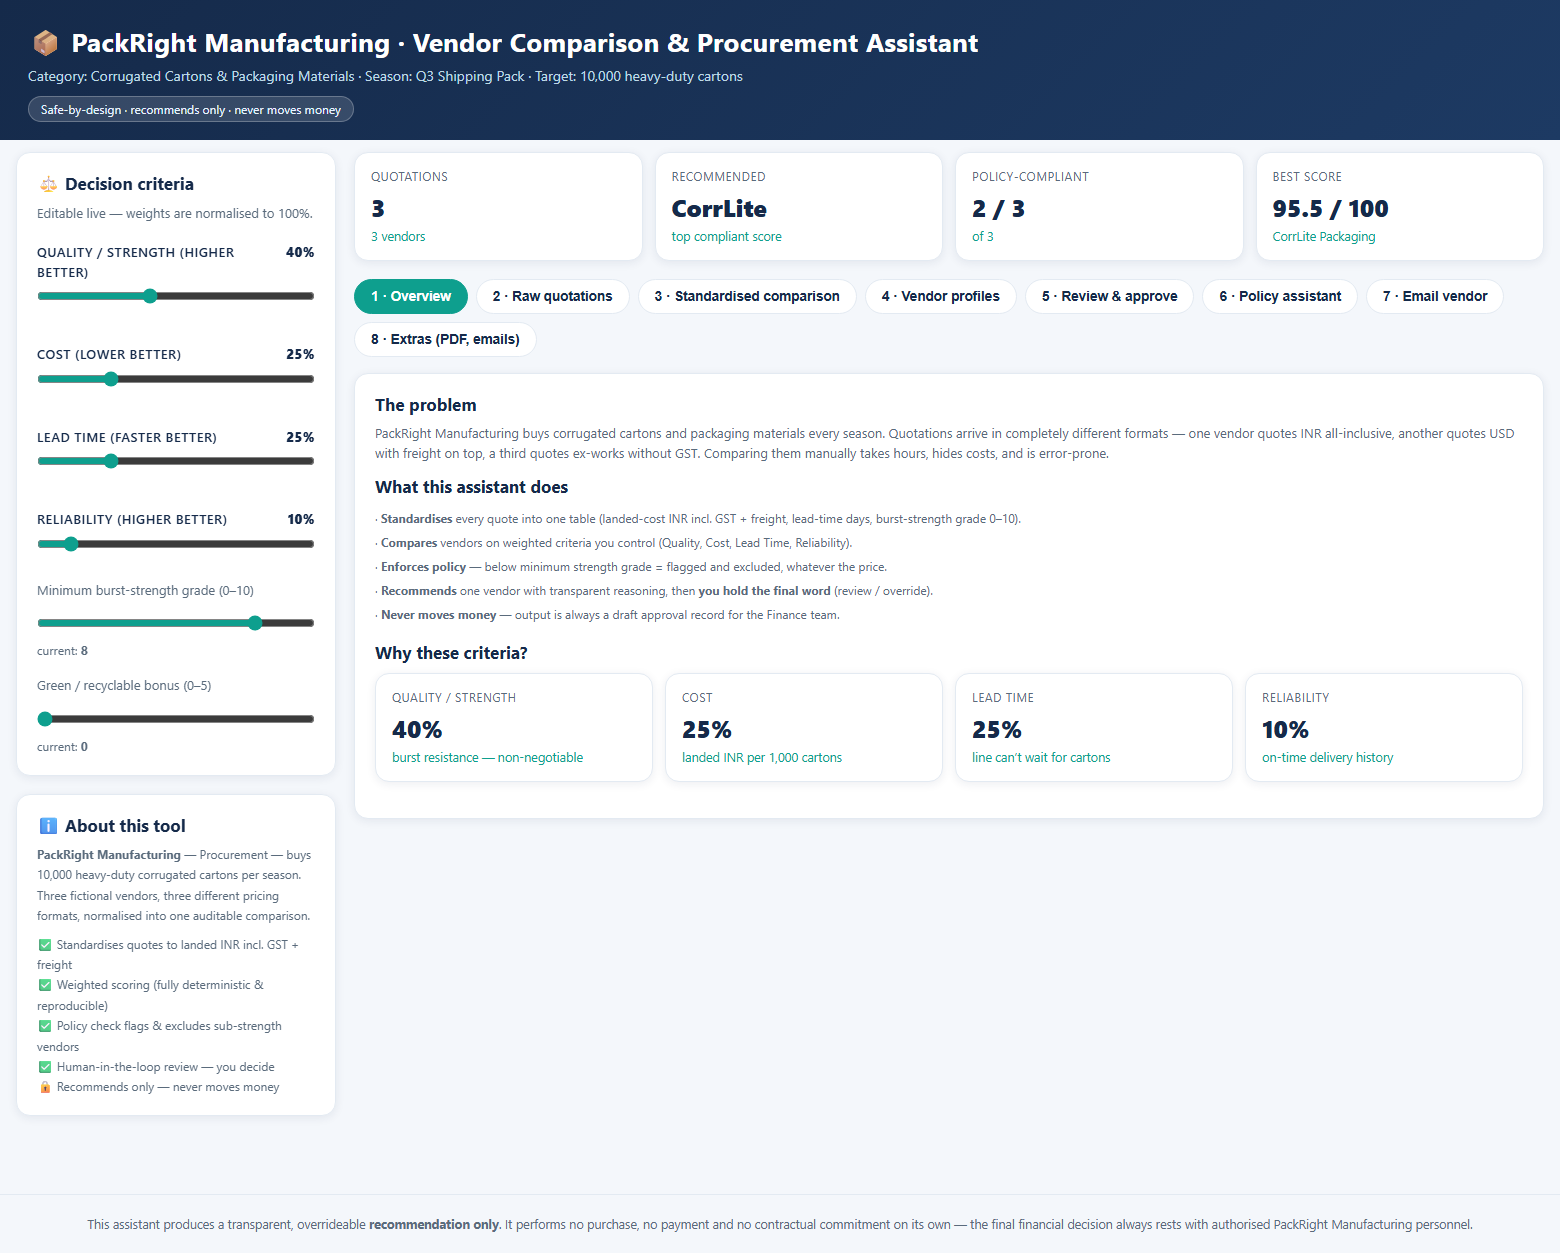
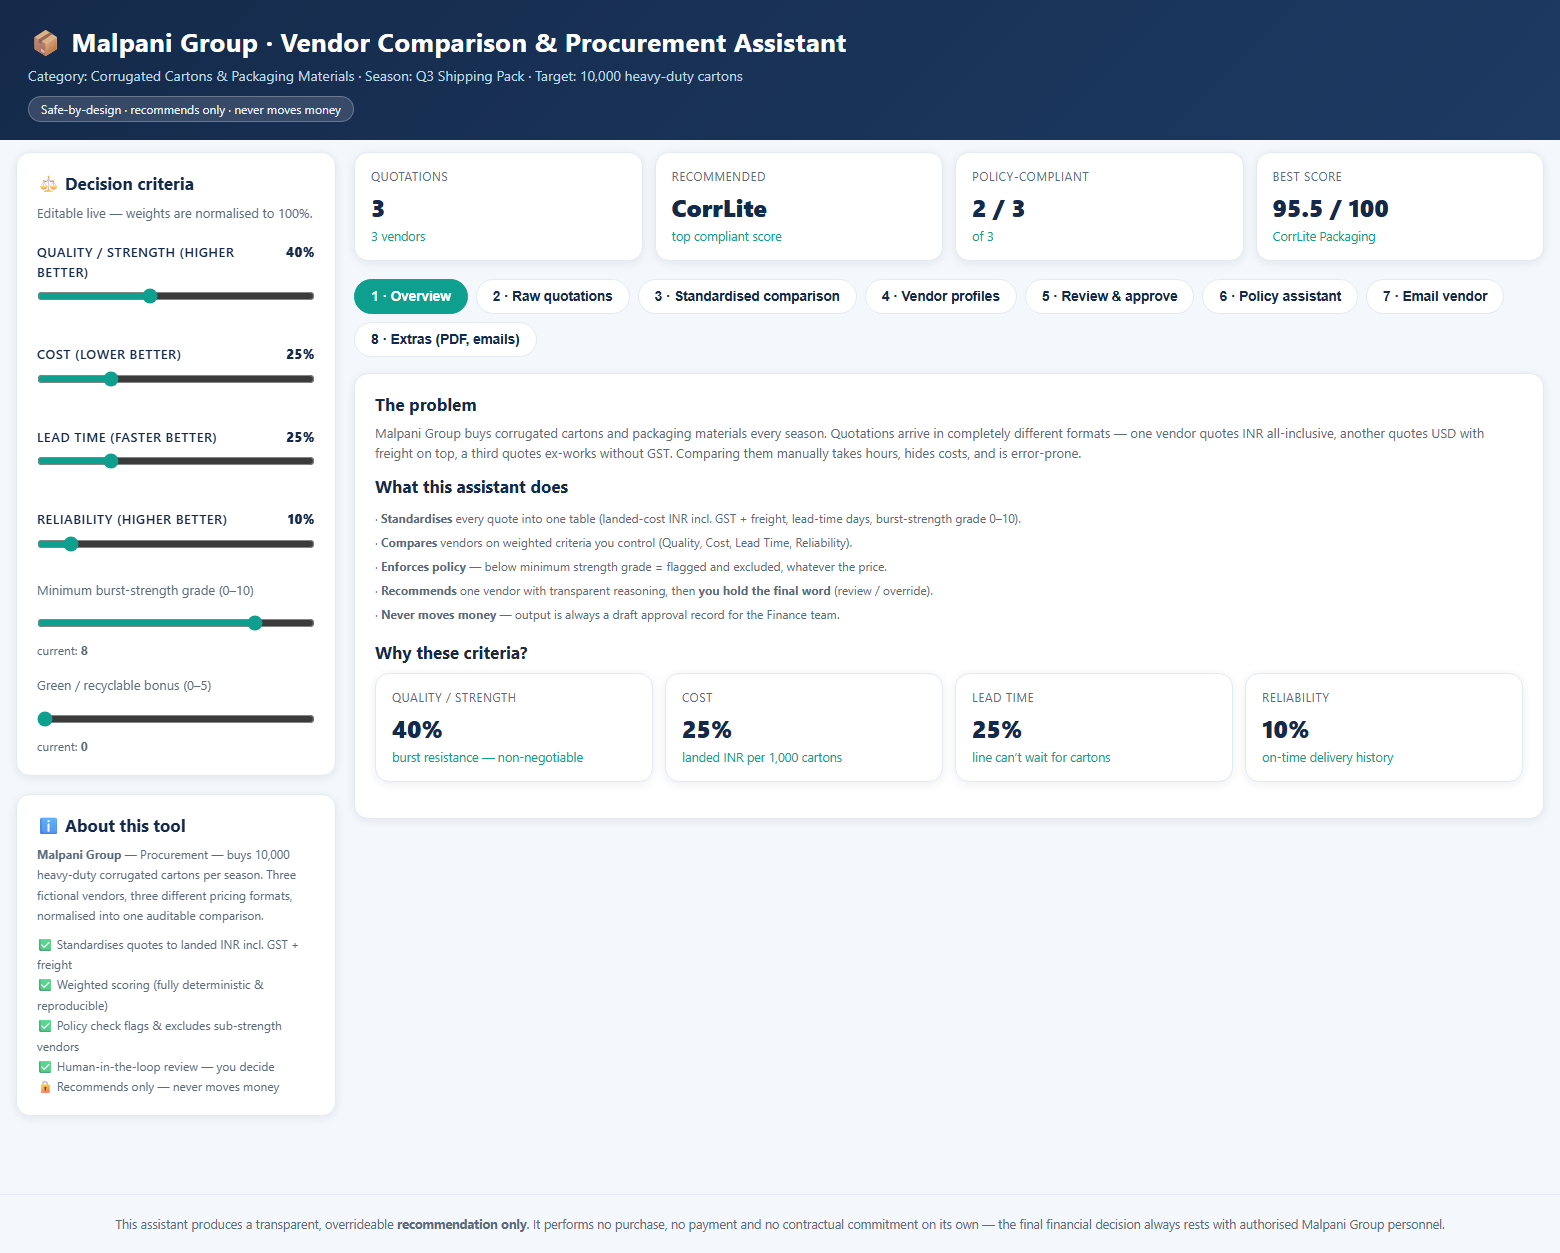
Rename firm to Malpani Group across app, docs, deck, pdf and screenshots

diff --git a/index.html b/index.html
@@ -3,7 +3,7 @@
 <head>
 <meta charset="UTF-8" />
 <meta name="viewport" content="width=device-width, initial-scale=1.0" />
-<title>PackRight Manufacturing · Vendor Comparison & Procurement Assistant</title>
+<title>Malpani Group · Vendor Comparison & Procurement Assistant</title>
 <style>
   :root {
     --navy: #152A4A;
@@ -157,7 +157,7 @@
 
 <header>
   <div class="wrap">
-    <h1>📦 PackRight Manufacturing · Vendor Comparison & Procurement Assistant</h1>
+    <h1>📦 Malpani Group · Vendor Comparison & Procurement Assistant</h1>
     <p>Category: Corrugated Cartons &amp; Packaging Materials · Season: Q3 Shipping Pack · Target: 10,000 heavy-duty cartons</p>
     <span class="badge">Safe-by-design · recommends only · never moves money</span>
   </div>
@@ -184,7 +184,7 @@
       <div class="panel">
         <h2>ℹ About this tool</h2>
         <div class="small" style="line-height:1.7">
-          <b>PackRight Manufacturing</b> — Procurement — buys 10,000 heavy-duty corrugated cartons per season.
+          <b>Malpani Group</b> — Procurement — buys 10,000 heavy-duty corrugated cartons per season.
           Three fictional vendors, three different pricing formats, normalised into one auditable comparison.
         </div>
         <div class="small" style="line-height:1.7; margin-top:8px">
@@ -217,7 +217,7 @@
   <section class="tab active" id="t1">
     <div class="panel">
       <h2>The problem</h2>
-      <p class="sub">PackRight Manufacturing buys corrugated cartons and packaging materials every season. Quotations arrive in completely different formats — one vendor quotes INR all-inclusive, another quotes USD with freight on top, a third quotes ex-works without GST. Comparing them manually takes hours, hides costs, and is error-prone.</p>
+      <p class="sub">Malpani Group buys corrugated cartons and packaging materials every season. Quotations arrive in completely different formats — one vendor quotes INR all-inclusive, another quotes USD with freight on top, a third quotes ex-works without GST. Comparing them manually takes hours, hides costs, and is error-prone.</p>
 
       <h2>What this assistant does</h2>
       <div class="small" style="line-height:2">
@@ -380,7 +380,7 @@
 
 <footer>
   This assistant produces a transparent, overrideable <b>recommendation only</b>. It performs no purchase, no payment and no
-  contractual commitment on its own — the final financial decision always rests with authorised PackRight Manufacturing personnel.
+  contractual commitment on its own — the final financial decision always rests with authorised Malpani Group personnel.
 </footer>
 
 <script src="https://cdn.jsdelivr.net/npm/pdfjs-dist@4.0.379/build/pdf.min.mjs" type="module" crossorigin="anonymous"></script>
@@ -394,7 +394,7 @@ const RAW_QUOTES = [
   {
     vendor: "CorrLite Packaging",
     received:
-`QUOTE #CL-0841  |  PackRight Manufacturing
+`QUOTE #CL-0841  |  Malpani Group
 Item: Heavy-duty corrugated shipping cartons (5-ply, kraft)
 Price: Rs. 4,85,000 per 10,000 cartons — ALL INCLUSIVE
 (incl. GST @ 18% + local delivery to plant).
@@ -497,7 +497,7 @@ const POLICY_KB = [
   { kw: ["lead time","delivery","delay","speed","fast","lead"],
     a: "Lead time is weighted because the packaging line cannot run without cartons. Our guideline favours vendors within a 15-day lead time; longer ones require scheduling approval." },
   { kw: ["green","recycl","renewable","solar","sustainab","energy","eco"],
-    a: "PackRight runs recyclable-first packaging goals, so we grant a small bonus (up to +5) to vendors using recyclable kraft or renewable energy — strengthening our sustainability brand." },
+    a: "Malpani Group runs recyclable-first packaging goals, so we grant a small bonus (up to +5) to vendors using recyclable kraft or renewable energy — strengthening our sustainability brand." },
   { kw: ["override","change","different vendor","human","review"],
     a: "Users may override the recommendation at the Review step using their own knowledge. The chosen vendor is recorded in an approval history for traceability." },
   { kw: ["gst","tax","freight","cif","ex-works","landed","inr","usd","exchange"],
@@ -752,7 +752,7 @@ function renderProfiles(scored) {
   }
   const note = document.getElementById("esgNote");
   if (note) {
-    note.innerHTML = "🌱 <b>ESG context:</b> PackRight targets 80% recyclable packaging by 2027. A small green bonus (up to +5, editable in the sidebar) rewards recyclable-kraft / renewable-energy mills, but sustainability is reported separately from the core commercial score so the two never blur.";
+    note.innerHTML = "🌱 <b>ESG context:</b> Malpani Group targets 80% recyclable packaging by 2027. A small green bonus (up to +5, editable in the sidebar) rewards recyclable-kraft / renewable-energy mills, but sustainability is reported separately from the core commercial score so the two never blur.";
   }
 }
 
@@ -851,19 +851,19 @@ Following your quotation for our corrugated carton requirement (10,000 heavy-dut
 Kindly confirm so we can complete a fair comparison.
 
 Regards,
-PackRight Manufacturing — Procurement`,
+Malpani Group — Procurement`,
     lead: `Hi ${vendor},
 
 Could you confirm the firm delivery lead time in calendar days from purchase order to our Nashik plant, including any permits or customs?
 
 Regards,
-PackRight Manufacturing — Procurement`,
+Malpani Group — Procurement`,
     discount: `Hi ${vendor},
 
 Your quoted landed price is above the average of the responsive quotations. Could you offer a revised commercial or a volume discount for this seasonal requirement?
 
 Regards,
-PackRight Manufacturing — Procurement`,
+Malpani Group — Procurement`,
   };
   return tpl[template] || tpl.shipping;
 }
@@ -915,11 +915,11 @@ function refreshMailDraft() {
 }
 
 function buildMailDraft(vendor, purpose) {
-  const signature = "\n\nRegards,\nPackRight Manufacturing — Procurement";
+  const signature = "\n\nRegards,\nMalpani Group — Procurement";
   const tpl = {
     rfq: `Dear ${vendor} Procurement Team,
 
-PackRight Manufacturing (Nashik plant) plans to purchase 10,000 heavy-duty corrugated shipping cartons (5-ply) for the upcoming Q3 season.
+Malpani Group (Nashik plant) plans to purchase 10,000 heavy-duty corrugated shipping cartons (5-ply) for the upcoming Q3 season.
 
 Please share your best quotation for the following:
   1. Unit price per 1,000 cartons — landed in INR incl. GST & freight.
@@ -928,9 +928,9 @@ Please share your best quotation for the following:
   4. Available volume discounts.
 
 Kindly respond within 5 working days.`,
-    shipping: clarificationEmail(vendor, "shipping").replace(/Regards,\nPackRight Manufacturing — Procurement$/, ""),
-    lead: clarificationEmail(vendor, "lead").replace(/Regards,\nPackRight Manufacturing — Procurement$/, ""),
-    discount: clarificationEmail(vendor, "discount").replace(/Regards,\nPackRight Manufacturing — Procurement$/, ""),
+    shipping: clarificationEmail(vendor, "shipping").replace(/Regards,\nMalpani Group — Procurement$/, ""),
+    lead: clarificationEmail(vendor, "lead").replace(/Regards,\nMalpani Group — Procurement$/, ""),
+    discount: clarificationEmail(vendor, "discount").replace(/Regards,\nMalpani Group — Procurement$/, ""),
   };
   return (tpl[purpose] || tpl.rfq) + signature;
 }
@@ -938,7 +938,7 @@ Kindly respond within 5 working days.`,
 function sendEmail() {
   const vendor = document.getElementById("mailVendor").value;
   const to = document.getElementById("mailTo").value.trim() || MAIL_EMAILS[vendor] || "";
-  const subject = encodeURIComponent(document.getElementById("mailSubject").value || "Enquiry — PackRight Manufacturing");
+  const subject = encodeURIComponent(document.getElementById("mailSubject").value || "Enquiry — Malpani Group");
   const body = encodeURIComponent(document.getElementById("mailBody").value);
   window.location.href = `mailto:${to}?subject=${subject}&body=${body}`;
   document.getElementById("mailMsg").innerHTML =

diff --git a/DEMO_SCRIPT.md b/DEMO_SCRIPT.md
@@ -1,6 +1,6 @@
 # Final Demonstration Script
 
-**Project:** PackRight Manufacturing — Vendor Comparison & Procurement Assistant
+**Project:** Malpani Group — Vendor Comparison & Procurement Assistant
 **Scenario:** Buying **10,000 heavy-duty corrugated cartons** (Corrugated Cartons & Packaging Materials)
 **Live URL:** https://sahilll5858.github.io/packright-procurement/
 
@@ -55,7 +55,7 @@ Still on Tab 5:
 - **Tab 8 — Extras**: upload a quotation **PDF** → parsed client-side; paste raw quote text → standardise.
 
 ## 9. Closing safety message
-*"This tool is transparent and overrideable, and it never commits funds. The final sign-off physically lives with authorised PackRight personnel."*
+*"This tool is transparent and overrideable, and it never commits funds. The final sign-off physically lives with authorised Malpani Group personnel."*
 
 ---
 

diff --git a/README.md b/README.md
@@ -1,4 +1,4 @@
-# 📦 PackRight Manufacturing · Vendor Comparison & Procurement Assistant
+# 📦 Malpani Group · Vendor Comparison & Procurement Assistant
 
 A **single-file, static, deploy-anywhere** capstone (**Topic 04 — Vendor Comparison
 and Procurement Assistant**) for the "Gen AI for Business" programme.
@@ -63,4 +63,4 @@ Double-click `index.html`, or `npx serve .`
 ## 🔒 Safety statement
 This assistant produces a transparent, overrideable **recommendation only**. It
 executes no purchase, no payment and no contractual commitment on its own. The
-final signing authority always rests with authorised PackRight personnel.
+final signing authority always rests with authorised Malpani Group personnel.
